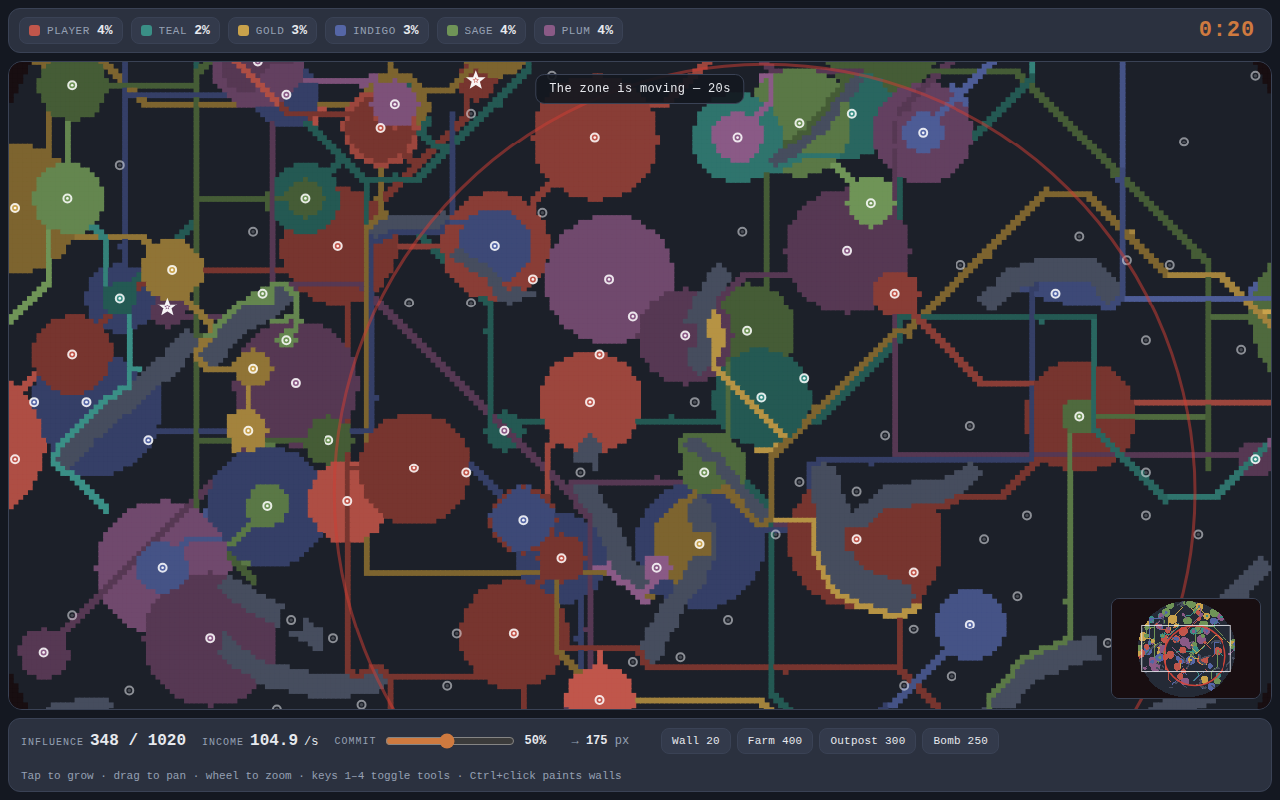
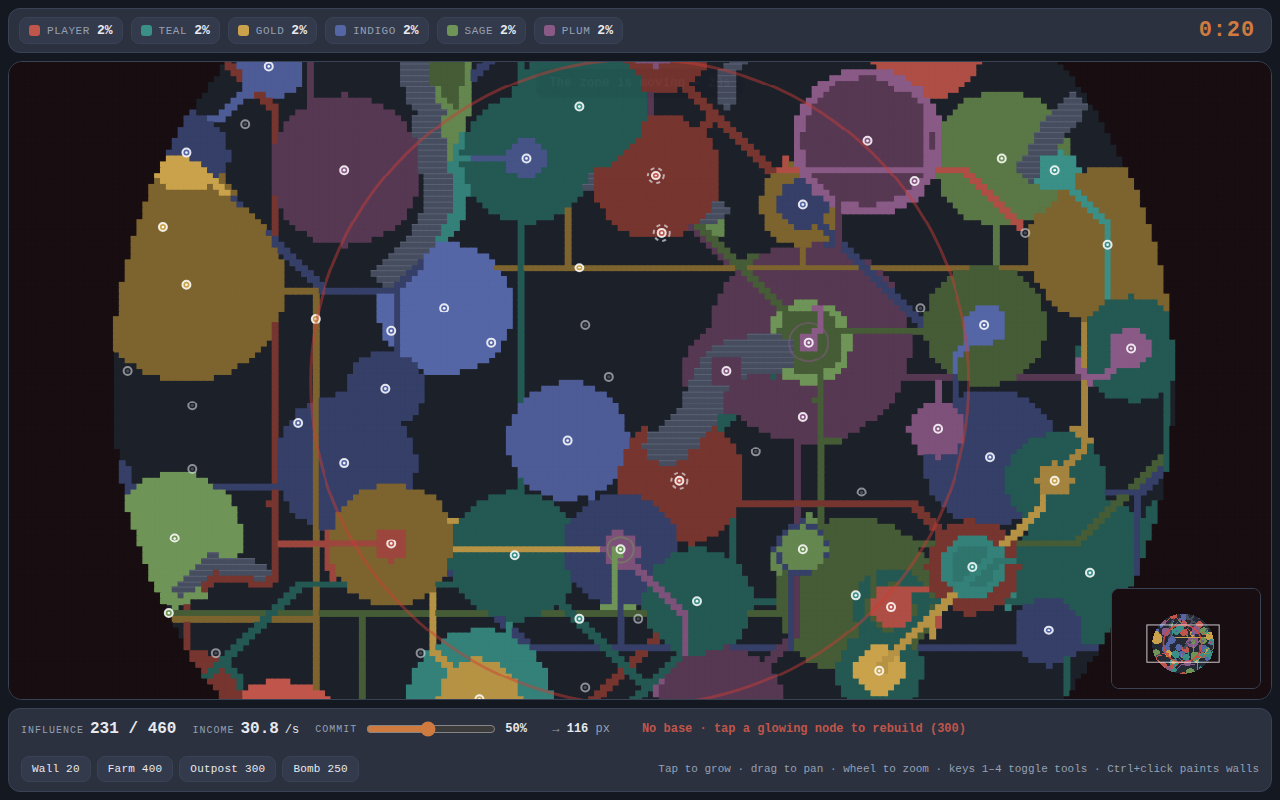
Turn how-to page into categorized accordion tutorials with screenshots
index.html restructured: the always-visible 10-second intro, then three
accordion categories built on native <details>/<summary> (no JS) —
Learn the basics (Controls, Growing & fighting, Nodes & base,
Barriers), Your tools (Wall/Farm/Outpost/Bomb, each with hotkey, cost,
screenshot and step-by-step usage), and Game modes (Classic, Battle
royale, The Zone, Teams 2v2/3v3, each with a numbered tutorial and
screenshot). Controls and Classic start open; images lazy-load.

New/regenerated screenshots: wall crack progression close-up, farm and
outpost close-ups, calmer Classic battlefield, battle royale with
eliminated players greyed in the scoreboard, Zone after first collapse
with next ring visible, and a balanced 3v3 frontline shot.

README: gallery extended with the teams and outpost shots and a link
to the illustrated tutorials.

Claude-Session: https://claude.ai/code/session_019VQsYov1L9Md6p5wyuq2JL

diff --git a/index.html b/index.html
@@ -35,10 +35,33 @@
   ul{list-style:none;margin:8px 0}
   li{position:relative;padding-left:20px;margin:8px 0;color:#d4dae5}
   li::before{content:"";position:absolute;left:2px;top:10px;width:6px;height:6px;border-radius:50%;background:var(--accent)}
+  ol.steps{counter-reset:s;list-style:none;margin:8px 0}
+  .steps li{padding-left:34px;margin:12px 0}
+  .steps li::before{counter-increment:s;content:counter(s);top:2px;left:0;width:22px;height:22px;border-radius:6px;
+    background:var(--panel);color:var(--ink);font-family:var(--mono);font-size:12px;font-weight:700;
+    display:flex;align-items:center;justify-content:center}
 
   .kbd{display:inline-block;font-family:var(--mono);font-size:12px;font-weight:700;color:var(--ink);
     background:var(--panel);border:1px solid var(--line);border-bottom-width:2px;border-radius:6px;
     padding:1px 8px;margin-right:2px;vertical-align:baseline}
+
+  .cat{font-family:var(--mono);font-size:12px;letter-spacing:.16em;text-transform:uppercase;color:var(--muted);
+    margin:30px 0 12px;display:flex;align-items:center;gap:12px}
+  .cat::after{content:"";flex:1;height:1px;background:var(--line)}
+
+  details.acc{background:var(--card);border:1px solid var(--line);border-radius:14px;margin-bottom:10px}
+  details.acc summary{cursor:pointer;list-style:none;display:flex;align-items:center;gap:10px;padding:16px 20px;
+    font-family:var(--mono);font-size:14px;letter-spacing:.05em;text-transform:uppercase;font-weight:700;user-select:none}
+  details.acc summary::-webkit-details-marker{display:none}
+  details.acc summary::before{content:"";width:10px;height:10px;border-radius:2px;background:var(--accent);flex:none}
+  details.acc summary .cost{color:var(--muted);font-weight:400;font-size:12px;margin-left:4px}
+  details.acc summary::after{content:"+";margin-left:auto;color:var(--muted);font-size:19px;line-height:1;flex:none}
+  details.acc[open] summary::after{content:"–"}
+  details.acc summary:hover{color:var(--accent)}
+  details.acc .inner{padding:0 20px 18px}
+
+  img.shot{width:100%;border-radius:10px;border:1px solid var(--line);margin:12px 0 4px;display:block}
+  .caption{font-size:12px;color:var(--muted);margin:4px 0 8px;font-family:var(--mono)}
 
   .two{display:grid;grid-template-columns:1fr 1fr;gap:14px}
   .sub{font-family:var(--mono);font-size:12px;letter-spacing:.08em;text-transform:uppercase;color:var(--muted);margin-bottom:6px}
@@ -74,78 +97,185 @@
     <p class="lead">You have <span class="accent">influence</span>. It buys land, one point per cell. Land and <span class="accent">nodes</span> make more influence. Hold the most ground when the clock stops — or be the last one standing. That's it. Everything below is spice.</p>
   </section>
 
-  <section>
-    <h2>Controls</h2>
-    <div class="two">
-      <div>
-        <div class="sub">PC</div>
-        <ul>
-          <li><b>Click</b> toward where you want to grow.</li>
-          <li><b>Drag</b> to pan · <b>wheel</b> to zoom · <b>WASD</b> works too.</li>
-          <li><span class="kbd">1</span><span class="kbd">2</span><span class="kbd">3</span><span class="kbd">4</span> toggle Wall / Farm / Outpost / Bomb.</li>
-          <li><b>Ctrl+click</b> also paints walls, old-school.</li>
-        </ul>
-      </div>
-      <div>
-        <div class="sub">Mobile</div>
-        <ul>
-          <li><b>Tap</b> toward where you want to grow.</li>
-          <li><b>Drag</b> to pan · <b>pinch</b> to zoom.</li>
-          <li>Tools live in the bottom bar.</li>
-          <li>Tap the <b>minimap</b> to jump around.</li>
-        </ul>
+  <div class="cat">Learn the basics</div>
+
+  <details class="acc" open>
+    <summary>Controls</summary>
+    <div class="inner">
+      <div class="two">
+        <div>
+          <div class="sub">PC</div>
+          <ul>
+            <li><b>Click</b> toward where you want to grow.</li>
+            <li><b>Drag</b> to pan · <b>wheel</b> to zoom · <b>WASD</b> works too.</li>
+            <li><span class="kbd">1</span><span class="kbd">2</span><span class="kbd">3</span><span class="kbd">4</span> toggle Wall / Farm / Outpost / Bomb.</li>
+            <li><b>Ctrl+click</b> also paints walls, old-school.</li>
+          </ul>
+        </div>
+        <div>
+          <div class="sub">Mobile</div>
+          <ul>
+            <li><b>Tap</b> toward where you want to grow.</li>
+            <li><b>Drag</b> to pan · <b>pinch</b> to zoom.</li>
+            <li>Tools live in the bottom bar.</li>
+            <li>Tap the <b>minimap</b> to jump around.</li>
+          </ul>
+        </div>
       </div>
     </div>
-  </section>
+  </details>
 
-  <section>
-    <h2>Nodes are your wallet</h2>
-    <p><span class="node"></span> The ringed dots on the map. Grow over one to capture it. Each node pays you influence, raises your <b>cap</b>, and extends how far you can push cheaply. Stealing an enemy's node pays a <span class="accent">fat bonus</span> and starves them.</p>
-    <p>The <b>Commit slider</b> sets how hard each tap swings — low for careful pokes, high to throw everything at one push.</p>
-  </section>
-
-  <section>
-    <h2>Fighting</h2>
-    <p>Empty land costs <b>1</b> per cell. Enemy land costs more the longer they've held it:</p>
-    <div class="swatches">
-      <div class="demo"><span class="box" style="background:#3a8f86"></span><span class="t">Bright<small>fresh · soft · cheap</small></span></div>
-      <div class="demo"><span class="box" style="background:#245953"></span><span class="t">Dark<small>dug in · tough · pricey</small></span></div>
+  <details class="acc">
+    <summary>Growing &amp; fighting</summary>
+    <div class="inner">
+      <p>Empty land costs <b>1</b> influence per cell. Enemy land costs more the longer they've held it:</p>
+      <div class="swatches">
+        <div class="demo"><span class="box" style="background:#3a8f86"></span><span class="t">Bright<small>fresh · soft · cheap</small></span></div>
+        <div class="demo"><span class="box" style="background:#245953"></span><span class="t">Dark<small>dug in · tough · pricey</small></span></div>
+      </div>
+      <p>The <b>Commit slider</b> sets how hard each tap swings — low for careful pokes, high to throw everything at one push.</p>
+      <p>Hit the <span class="accent">bright seams</span>, don't grind into dark cores. And pushing far from your nodes costs extra — capture your way forward instead of lunging across the map.</p>
     </div>
-    <p>Hit the <span class="accent">bright seams</span>. Don't grind into dark cores. And pushing far from your nodes costs extra — capture your way forward instead of lunging across the map.</p>
-  </section>
+  </details>
 
-  <section>
-    <h2>Your toolbar</h2>
-    <ul>
-      <li><span class="kbd">1</span> <b>Wall</b> (<span class="accent">20</span>) — has <span class="accent">25 durability</span>. Attacks chip away at it and leave visible <b>cracks</b>, so you can see a wall about to give.</li>
-      <li><span class="kbd">2</span> <b>Farm</b> (<span class="accent">400</span>) — pays <span class="accent">+120</span> every 15s and raises your cap. Your economy engine.</li>
-      <li><span class="kbd">3</span> <b>Outpost</b> (<span class="accent">300</span>) — chews up to <span class="accent">40 cells</span> every 12s, prefers enemy land, and acts as a <b>forward supply point</b>. Your spearhead.</li>
-      <li><span class="kbd">4</span> <b>Bomb</b> (<span class="accent">250</span>) — aim anywhere in supply range and blast a crater out of enemy territory: cells, walls and buildings gone. On a cooldown. Outposts extend its reach.</li>
-    </ul>
-  </section>
+  <details class="acc">
+    <summary>Nodes &amp; your base</summary>
+    <div class="inner">
+      <p><span class="node"></span> Nodes are the ringed dots on the map. Grow over one to capture it. Each node pays you influence, raises your <b>cap</b>, and extends how far you can push cheaply. Stealing an enemy's node pays a <span class="accent">fat bonus</span> and starves them.</p>
+      <p>The <b>star</b> is your base. Lose it and your income drops <span class="accent">30%</span>. To rebuild: fully entrench a node (it'll glow), tap it, pay <span class="accent">300</span>. Back in business.</p>
+    </div>
+  </details>
 
-  <section>
-    <h2>The map fights back</h2>
-    <p>Grey <b>rock barriers</b> carve up the map — you can't own them or cross them, so armies flow around like water. New barriers keep forming <b>mid-round</b>. A lane that's open now might not stay open. Plan accordingly.</p>
-  </section>
+  <details class="acc">
+    <summary>Barriers — the map fights back</summary>
+    <div class="inner">
+      <p>Grey <b>rock barriers</b> carve up the map — you can't own them or cross them, so armies flow around like water. New barriers keep forming <b>mid-round</b>. A lane that's open now might not stay open. Plan accordingly.</p>
+    </div>
+  </details>
 
-  <section>
-    <h2>Your base</h2>
-    <p>The <b>star</b> is your base. Lose it and your income drops <span class="accent">30%</span>. To rebuild: fully entrench a node (it'll glow), tap it, pay <span class="accent">300</span>. Back in business.</p>
-  </section>
+  <div class="cat">Your tools</div>
 
-  <section>
-    <h2>Modes &amp; bots</h2>
-    <ul>
-      <li><b>Classic</b> — most territory when the clock runs out.</li>
-      <li><b>Battle royale</b> — no clock, last one standing.</li>
-      <li><b>The Zone</b> — a circular map that collapses in <span class="accent">5 phases</span>, 2 minutes each. A <span class="accent">red ring</span> shows where the zone moves next — and it's <b>never quite the middle</b> — 20 seconds before it shrinks. Anything caught outside is crushed: land, walls, buildings, even <b>nodes</b> (and their cap and income go with them). Hug the edge at your own risk.</li>
-      <li><b>2v2 / 3v3</b> — team up with bot allies who share <b>your colour</b>. You can't take a teammate's land, your bombs and outposts spare them, and their nodes extend <b>your</b> reach. Team with the most combined ground wins — or wipe the other side out.</li>
-    </ul>
-    <p>Pick <span class="accent">Easy</span>, <span class="accent">Normal</span> or <span class="accent">Hard</span> bots — harder ones think faster, hit harder, and build farms and outposts of their own. Up to <b>99</b> of them, if you're feeling brave.</p>
-  </section>
+  <details class="acc">
+    <summary><span class="kbd">1</span> Wall <span class="cost">· 20</span></summary>
+    <div class="inner">
+      <p>A wall has <span class="accent">25 durability</span>. Attackers must chip through it before they can take the cell — every point of influence they throw at it knocks off a point of durability, and the damage shows as <b>cracks</b>.</p>
+      <img class="shot" src="screenshots/wall.png" alt="Wall line showing crack progression from intact to nearly broken" loading="lazy">
+      <p class="caption">Top walls: fresh. Bottom walls: one hit from crumbling.</p>
+      <ol class="steps">
+        <li>Press <span class="kbd">1</span> (or hold <b>Ctrl</b>) and click cells inside your territory to paint walls.</li>
+        <li>Wall the <b>chokepoints</b> — gaps between barriers, the ring around your base and farms. Don't wall everything; 20 each adds up.</li>
+        <li>Watch for cracks on your own walls and re-wall behind them before they break.</li>
+      </ol>
+    </div>
+  </details>
 
-  <section>
+  <details class="acc">
+    <summary><span class="kbd">2</span> Farm <span class="cost">· 400</span></summary>
+    <div class="inner">
+      <p>Pays <span class="accent">+120 influence every 15s</span> and raises your influence cap by 40. It pays for itself in under a minute — the earlier you build it, the more it prints.</p>
+      <img class="shot" src="screenshots/farm.png" alt="A farm built inside friendly territory near the base" loading="lazy">
+      <ol class="steps">
+        <li>Press <span class="kbd">2</span>, then click a cell <b>deep inside</b> your territory.</li>
+        <li>Build the first one as soon as you can spare 400 without stalling your expansion.</li>
+        <li>Protect it — if the cell is captured, bombed or crushed, the farm is gone.</li>
+      </ol>
+    </div>
+  </details>
+
+  <details class="acc">
+    <summary><span class="kbd">3</span> Outpost <span class="cost">· 300</span></summary>
+    <div class="inner">
+      <p>Every 12 seconds it claims up to <span class="accent">40 cells</span> around itself, <b>preferring enemy land</b>, leaving a defended beachhead and softening nearby entrenchment. It's also a <b>forward supply point</b>: you can expand (and bomb) cheaply around it, the same as around a node.</p>
+      <img class="shot" src="screenshots/outpost.png" alt="An outpost at the frontier splashing captured cells into enemy territory" loading="lazy">
+      <p class="caption">The triangle is the outpost — see the red splash chewing into teal land.</p>
+      <ol class="steps">
+        <li>Press <span class="kbd">3</span>, then click a cell <b>at your frontier</b>, facing the enemy.</li>
+        <li>Let it grind: it erodes their dark, entrenched cells that would cost you a fortune to take by hand.</li>
+        <li>Chain outposts forward to extend your reach across the map.</li>
+      </ol>
+    </div>
+  </details>
+
+  <details class="acc">
+    <summary><span class="kbd">4</span> Bomb <span class="cost">· 250</span></summary>
+    <div class="inner">
+      <p>An aimed strike. Blasts a crater out of enemy territory — their cells, walls and buildings are wiped (nodes survive). Works anywhere <b>within your supply range</b>, on a <span class="accent">25s cooldown</span>.</p>
+      <img class="shot" src="screenshots/bomb.png" alt="Aiming reticle of a bomb hovering over enemy territory" loading="lazy">
+      <p class="caption">Orange ring = valid target. Red ring = out of range or still recharging.</p>
+      <ol class="steps">
+        <li>Press <span class="kbd">4</span> — a reticle follows your cursor.</li>
+        <li>Aim at a <b>dark, dug-in blob</b> or a farm cluster and click. The crater is neutral ground: cheap to walk into.</li>
+        <li>Outposts extend your supply range — an outpost + bomb combo reaches deep behind enemy lines.</li>
+      </ol>
+    </div>
+  </details>
+
+  <div class="cat">Game modes — tutorials</div>
+
+  <details class="acc" open>
+    <summary>Classic</summary>
+    <div class="inner">
+      <p>The clock race: <b>most territory when time runs out wins</b>.</p>
+      <img class="shot" src="screenshots/gameplay.png" alt="Classic mode: territories colliding around rock barriers" loading="lazy">
+      <ol class="steps">
+        <li><b>Spawn smart</b> (10s): pick a spot near 2–3 nodes, away from rivals.</li>
+        <li><b>First minute:</b> capture the nearby nodes — income, cap and reach all come from them.</li>
+        <li><b>Build a farm</b> once you can spare 400. It pays for itself in ~50 seconds.</li>
+        <li><b>Mid game:</b> push bright seams, wall your chokepoints, plant an outpost toward your main rival.</li>
+        <li><b>Last minute:</b> territory only counts at 0:00 — dump your whole bar, bomb the biggest enemy blob, and grab everything you can.</li>
+      </ol>
+    </div>
+  </details>
+
+  <details class="acc">
+    <summary>Battle royale</summary>
+    <div class="inner">
+      <p>No clock. <b>Lose all your land and you're out — last one standing wins.</b></p>
+      <img class="shot" src="screenshots/royale.png" alt="Battle royale: eliminated players shown greyed out in the scoreboard" loading="lazy">
+      <p class="caption">Greyed-out names in the scoreboard are already eliminated.</p>
+      <ol class="steps">
+        <li><b>Survive first, win later.</b> You can't be voted out of a clock — only starved to zero cells. Don't overextend early.</li>
+        <li>Spawn away from the crowd and let the bots maul each other.</li>
+        <li>Build a tight economy: nodes, farms, and walls around your core.</li>
+        <li>Strike players who just lost a fight — their fresh land is bright and cheap.</li>
+        <li>When someone's eliminated, their leftover ground is free real estate. Snowball it.</li>
+      </ol>
+    </div>
+  </details>
+
+  <details class="acc">
+    <summary>The Zone</summary>
+    <div class="inner">
+      <p>A circular map that <b>collapses five times</b>, two minutes per phase — and never quite toward the middle.</p>
+      <img class="shot" src="screenshots/zone.png" alt="The Zone: circular map after the first collapse with the next red ring showing" loading="lazy">
+      <p class="caption">Scorched ground outside the circle is gone for good. The red ring is the next safe zone.</p>
+      <ol class="steps">
+        <li>The <span class="accent">red ring</span> appears <b>20 seconds</b> before each collapse and shows exactly where the map shrinks to.</li>
+        <li><b>Crushed nodes are deleted</b> — their income and cap vanish from whoever owns them. Don't build your economy near the edge.</li>
+        <li>When the ring appears, <b>move immediately</b>: push territory into the ring, abandon what's outside.</li>
+        <li>Getting crushed to zero cells eliminates you, same as royale — the zone kills more players than the players do.</li>
+        <li>After the fifth collapse: a <b>60-second final countdown</b> — most ground inside the last circle wins.</li>
+      </ol>
+    </div>
+  </details>
+
+  <details class="acc">
+    <summary>Teams — 2v2 &amp; 3v3</summary>
+    <div class="inner">
+      <p>Bot allies who share <b>your colour</b> against a matched enemy team. <b>Most combined ground wins</b> — or wipe the other team out.</p>
+      <img class="shot" src="screenshots/teams.png" alt="3v3 team match: two colour blocks colliding at a frontline" loading="lazy">
+      <p class="caption">One colour per team — your allies are literally on your side of the map.</p>
+      <ol class="steps">
+        <li>Pick <b>2v2</b> or <b>3v3</b> on the start screen (the opponents field is fixed in team play).</li>
+        <li><b>You can't hurt teammates</b> — expansion, bombs and outposts all spare them. Push through the gaps they leave.</li>
+        <li>Ally nodes and outposts extend <b>your</b> supply range — expanding along your ally's territory lets you strike deep.</li>
+        <li>Pincer: split an enemy between you and an ally and eat both flanks at once.</li>
+        <li>The result screen scores by <b>team totals</b> — a fed ally wins games too. Don't hog every node.</li>
+      </ol>
+    </div>
+  </details>
+
+  <section style="margin-top:26px">
     <h2>Cheat sheet</h2>
     <ul>
       <li>Grab nearby nodes first. Always.</li>

diff --git a/README.md b/README.md
@@ -22,13 +22,19 @@
 
 ## 📸 Screenshots
 
-| The battlefield | Bomb incoming |
+| The battlefield (Classic) | Bomb incoming |
 |---|---|
 | ![Gameplay — territories colliding around rock barriers](screenshots/gameplay.png) | ![Aiming a bomb at enemy territory](screenshots/bomb.png) |
+
+| Teams (3v3) — one colour per side | Outpost chewing into enemy land |
+|---|---|
+| ![3v3 team match — two colour blocks colliding](screenshots/teams.png) | ![Outpost splashing a beachhead into enemy territory](screenshots/outpost.png) |
 
 **The Zone** — the red ring shows where the map collapses next:
 
 ![The Zone mode — circular map with the red warning ring](screenshots/zone.png)
+
+> 📚 **Every mode and every tool has a step-by-step illustrated tutorial on the [How to Play page](https://evropiani.github.io/influence/).**
 
 <details>
 <summary>Start screen (colours, opponents, difficulty, mode)</summary>